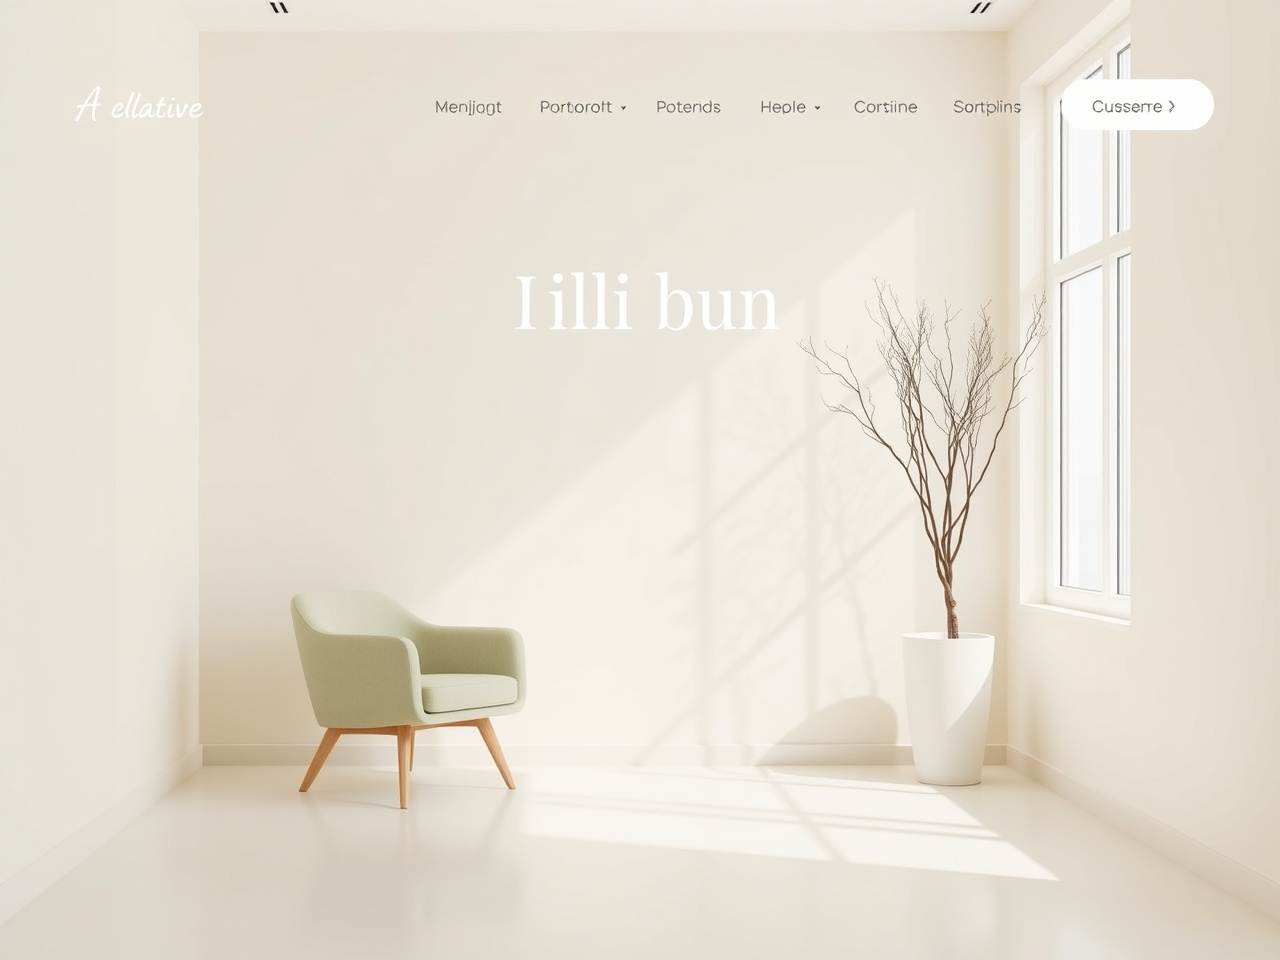
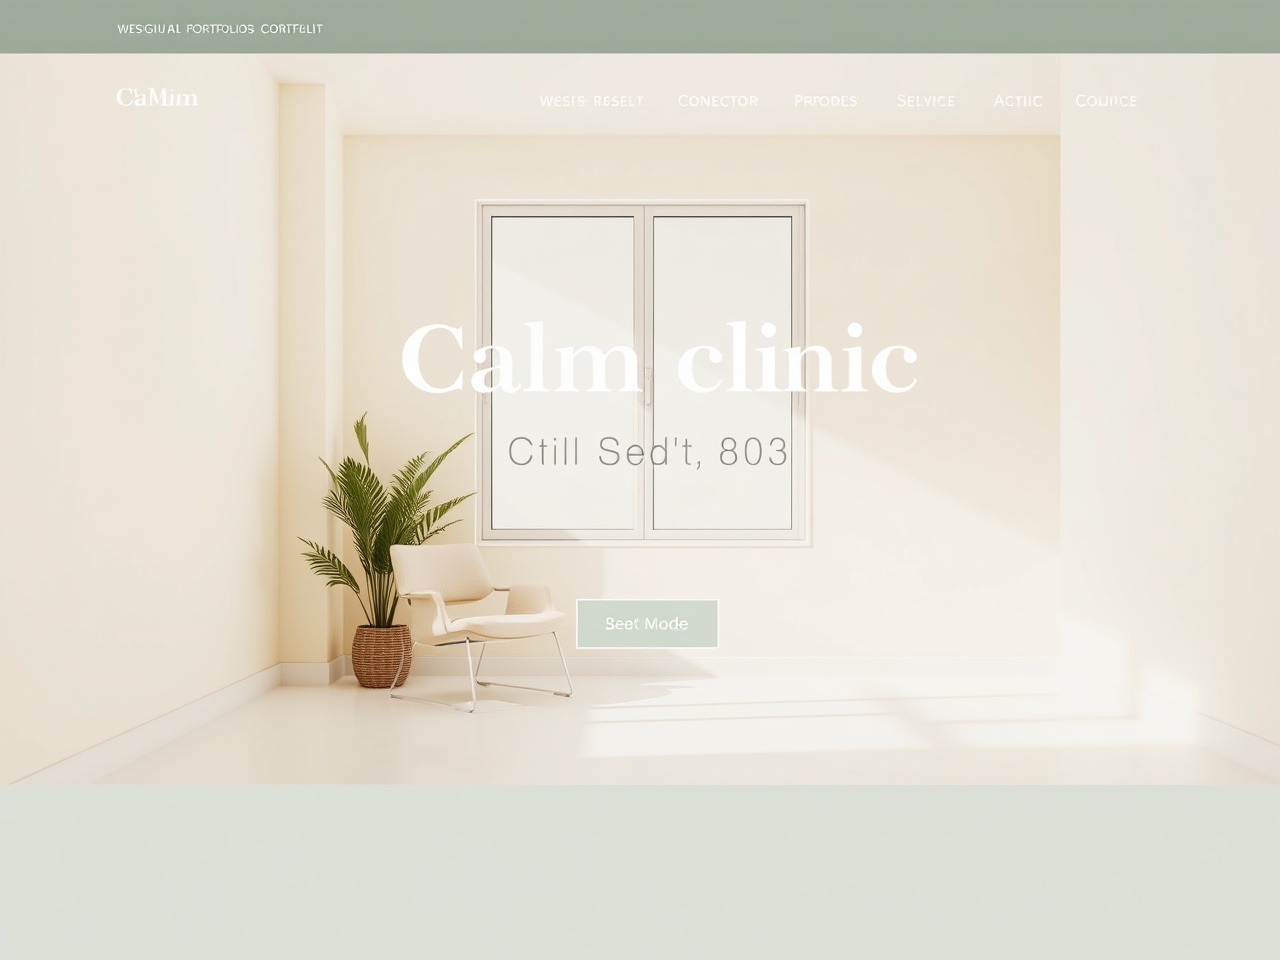
feat: ai-generated images for 4 new work cases
Regenerates all 8 carousel mockups against Flux Schnell using the
new FAL_KEY_3 credentials. Yoga (Brooklyn), coffee (Reykjavik),
architecture (Athens), and bakery (Mexico City) now ship with real
PNG mockups instead of falling back to the SVG placeholder. The
existing four (hospitality / leisure / health / wine) were
re-rolled in the same pass so the whole carousel reads cohesively.

Also patches the .env.local loader in scripts/gen-ai-work.ts and
gen-ai-hero.ts to strip a matched pair of surrounding quotes from
each value. `vercel env pull` writes values as KEY="..." and the
previous loader passed the literal quote bytes into process.env,
which is why the first re-run authenticated against FAL with a
quoted credential and got 401 Unauthorized.

diff --git a/scripts/gen-ai-hero.ts b/scripts/gen-ai-hero.ts
@@ -14,7 +14,17 @@ try {
   const raw = fsSync.readFileSync('.env.local', 'utf8');
   for (const line of raw.split('\n')) {
     const m = line.match(/^([A-Z_][A-Z0-9_]*)=(.*)$/);
-    if (m && !process.env[m[1]]) process.env[m[1]] = m[2];
+    if (m && !process.env[m[1]]) {
+      let v = m[2];
+      // `vercel env pull` wraps values in double quotes. Strip a
+      // matched pair so downstream consumers get the bare value.
+      if (v.length >= 2 && v.startsWith('"') && v.endsWith('"')) {
+        v = v.slice(1, -1);
+      } else if (v.length >= 2 && v.startsWith("'") && v.endsWith("'")) {
+        v = v.slice(1, -1);
+      }
+      process.env[m[1]] = v;
+    }
   }
 } catch {
   /* fall through — env may already be set in the shell */

diff --git a/scripts/gen-ai-work.ts b/scripts/gen-ai-work.ts
@@ -14,7 +14,17 @@ try {
   const raw = fsSync.readFileSync('.env.local', 'utf8');
   for (const line of raw.split('\n')) {
     const m = line.match(/^([A-Z_][A-Z0-9_]*)=(.*)$/);
-    if (m && !process.env[m[1]]) process.env[m[1]] = m[2];
+    if (m && !process.env[m[1]]) {
+      let v = m[2];
+      // `vercel env pull` wraps values in double quotes. Strip a
+      // matched pair so FAL gets the bare token, not "<token>".
+      if (v.length >= 2 && v.startsWith('"') && v.endsWith('"')) {
+        v = v.slice(1, -1);
+      } else if (v.length >= 2 && v.startsWith("'") && v.endsWith("'")) {
+        v = v.slice(1, -1);
+      }
+      process.env[m[1]] = v;
+    }
   }
 } catch {
   /* fall through */
